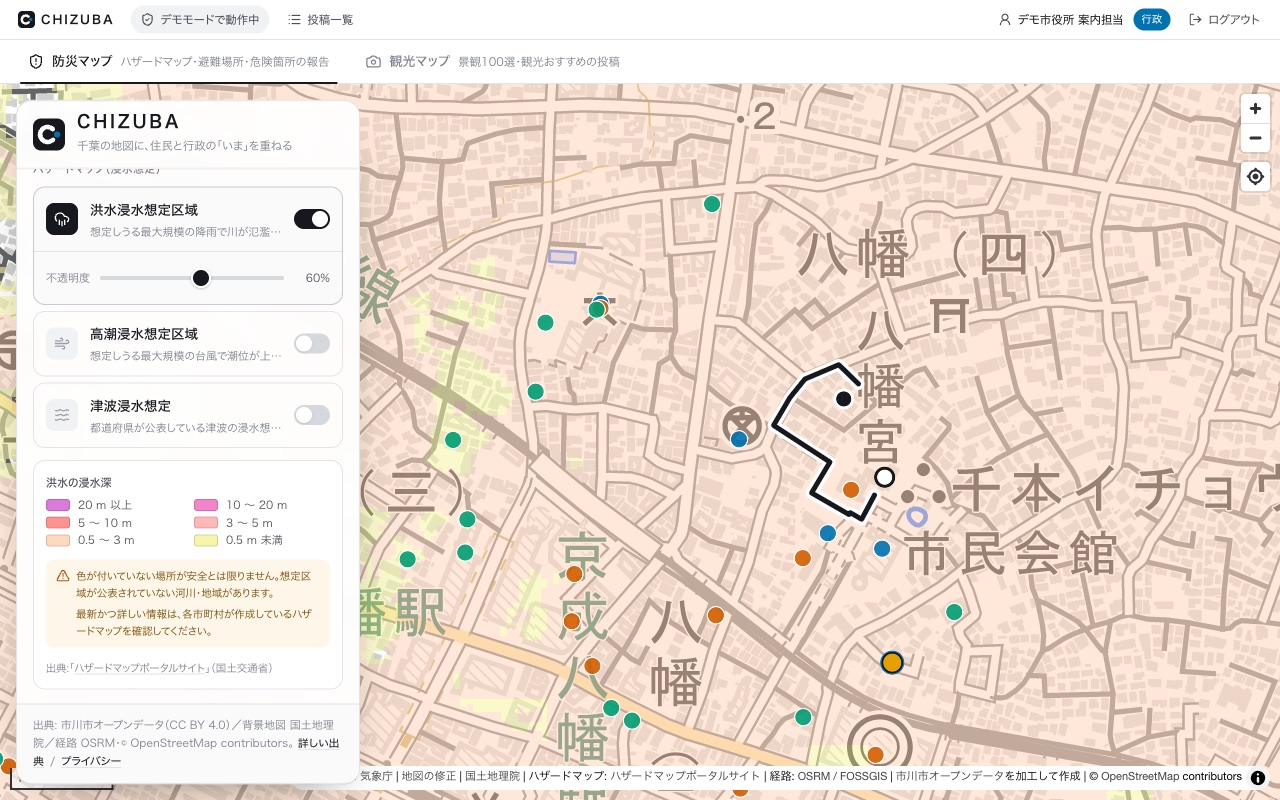
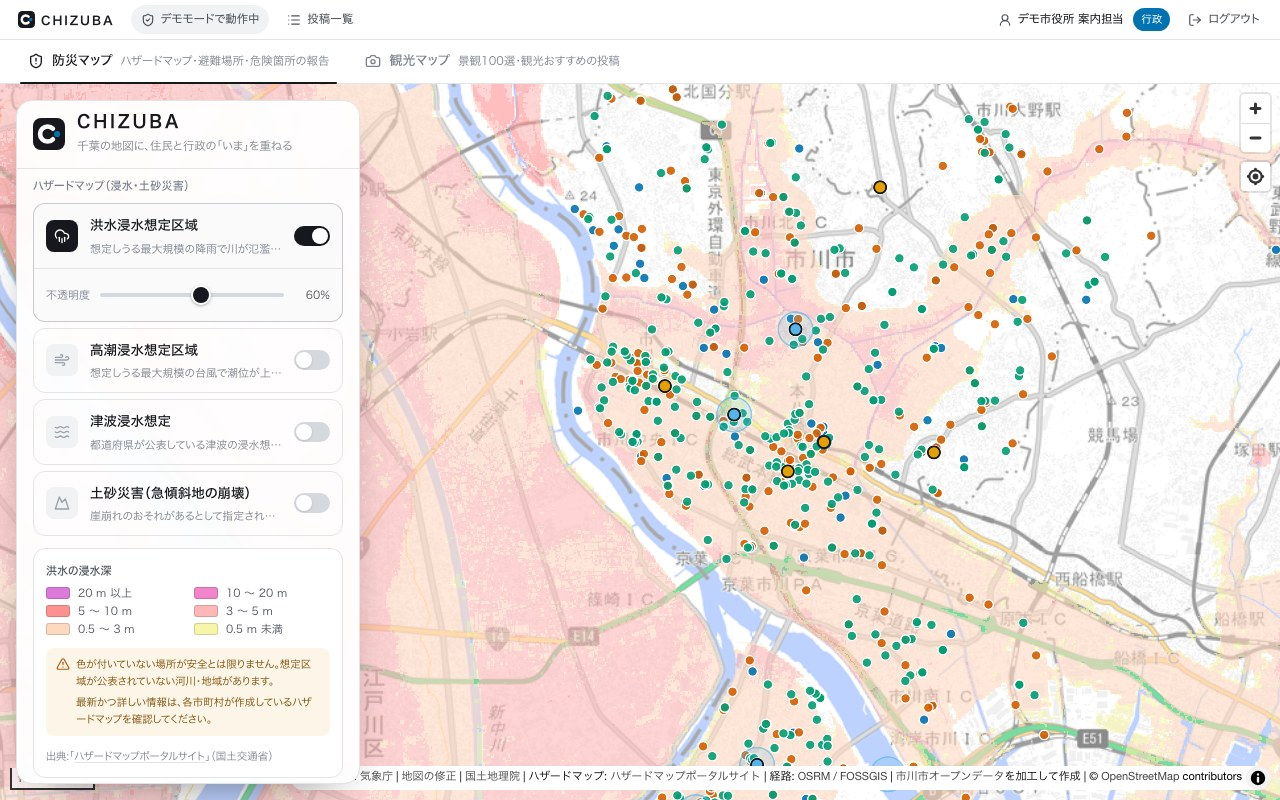
[ドキュメント] 説明書のハザードのスクショを土砂災害 4 種の状態に撮り直す (#43)
PR #41 で土砂災害（急傾斜地の崩壊）を足したのに、説明書の画像は
トグルが 3 つのままだった。本文には「この画像は土砂災害を足す前のもの」と
断りを入れて逃げていたので、撮り直して断りを消す。

- 18-hazard-legend-pc.jpg を差し替え（既定の状態・トグル 4 つ）
- 21-hazard-landslide-pc.jpg を追加（土砂災害 ON。洪水と土砂災害の凡例が
  縦に 2 つ並ぶところが分かる）
- 02-screens.md の断りを削除し、alt と本文を実物に合わせた

撮影は PR #37 と同じ条件（1280x800・行政のデモユーザー・デモ投稿 22 件のみ）。
`docker compose -p shot-kyukeisha` で隔離して立て、撮影後に down -v で片付けた。
画像にパス・メール・ホスト名が入っていないことを strings で確認済み。

375px 版は該当する画像が無いので追加していない
（03-panel-layers-375.jpg は施設レイヤーの節で、ハザードの節ではない）。

Claude-Session: https://claude.ai/code/session_01FrbjCvad7g5MBzLkScX9AG

diff --git a/docs/manual/02-screens.md b/docs/manual/02-screens.md
@@ -192,14 +192,17 @@
 
 ON にすると、その行の下に**不透明度のスライダー**（10〜100%・既定 60%）が出る。
 
-<img src="img/18-hazard-legend-pc.jpg" alt="ハザードのトグル、不透明度スライダー、6 段階の凡例、注意書き" width="100%">
-
-> **この画像は土砂災害のトグルを足す前のもの**なので、トグルが 3 つしか写っていない。
-> 実際の画面には 4 つ並ぶ。
+<img src="img/18-hazard-legend-pc.jpg" alt="ハザードのトグル 4 つ、不透明度スライダー、洪水の 6 段階の凡例、注意書き" width="100%">
 
 その下に**凡例**が出る。**洪水は 6 段階、津波・高潮は 8 段階**で、同じ色でも表す深さが違う。
 **土砂災害だけは深さではなく区域の種別**（特別警戒 / 警戒 × 指定済 / 指定予定の 4 区分）で、
-青い破線で囲まれているものが「指定予定」。表示中のものに合わせて出し分ける。
+青い破線で囲まれているものが「指定予定」。**表示中のものに合わせて出し分ける**ので、
+2 つ以上 ON にすると凡例も 2 つ並ぶ。
+
+<img src="img/21-hazard-landslide-pc.jpg" alt="土砂災害を ON にしたところ。洪水と土砂災害の凡例が縦に 2 つ並んでいる" width="100%">
+
+土砂災害を ON にしたところ。**洪水の凡例の下に土砂災害の凡例が足される。**
+地図では北部（国分・国府台・中山・曽谷のあたり）の斜面に区域が出る。
 
 **土砂災害の指定は斜面のある場所に限られる。** 市川市では北部（国分・国府台・中山・曽谷など）に
 偏っていて、南部の低地には出ない。何も塗られなくても「危険が無い」という意味ではない。

diff --git a/.agent/progress.md b/.agent/progress.md
@@ -204,3 +204,11 @@
   （`preserveDrawingBuffer` が false）。描画の確認は**タイルの取得結果（HTTP 200/404）と
   凡例 DOM**で行うのが確実。ページの SSR HTML を main と突き合わせる方法も有効で、
   今回は `/` が完全一致・`/about` は追加ぶんとクラス順の入れ替えだけだった。
+- 2026-09-04: 説明書のハザードのスクショを撮り直した（`docs/hazard-screenshot`）。
+  トグルが 3 つのままだった `18-hazard-legend-pc.jpg` を 4 つの状態に差し替え、
+  凡例の出し分けが分かる `21-hazard-landslide-pc.jpg` を足した。
+  撮影は `-p shot-kyukeisha` で隔離した compose（デモ投稿 22 件のみ）＋ 手元に入れた
+  playwright（MCP 経由ではない）。**MCP のスクショは出力先がセッションから辿れないので使えない。**
+- 2026-09-04: 実測でわかったこと — **Playwright が書く JPEG には Exif が付かない**
+  （PR #37 の 20 枚は Exif 付きだったので、撮り方が違うと分かる）。混入検査は
+  `strings | grep` でパス・メール・ホスト名を見ればよい。
